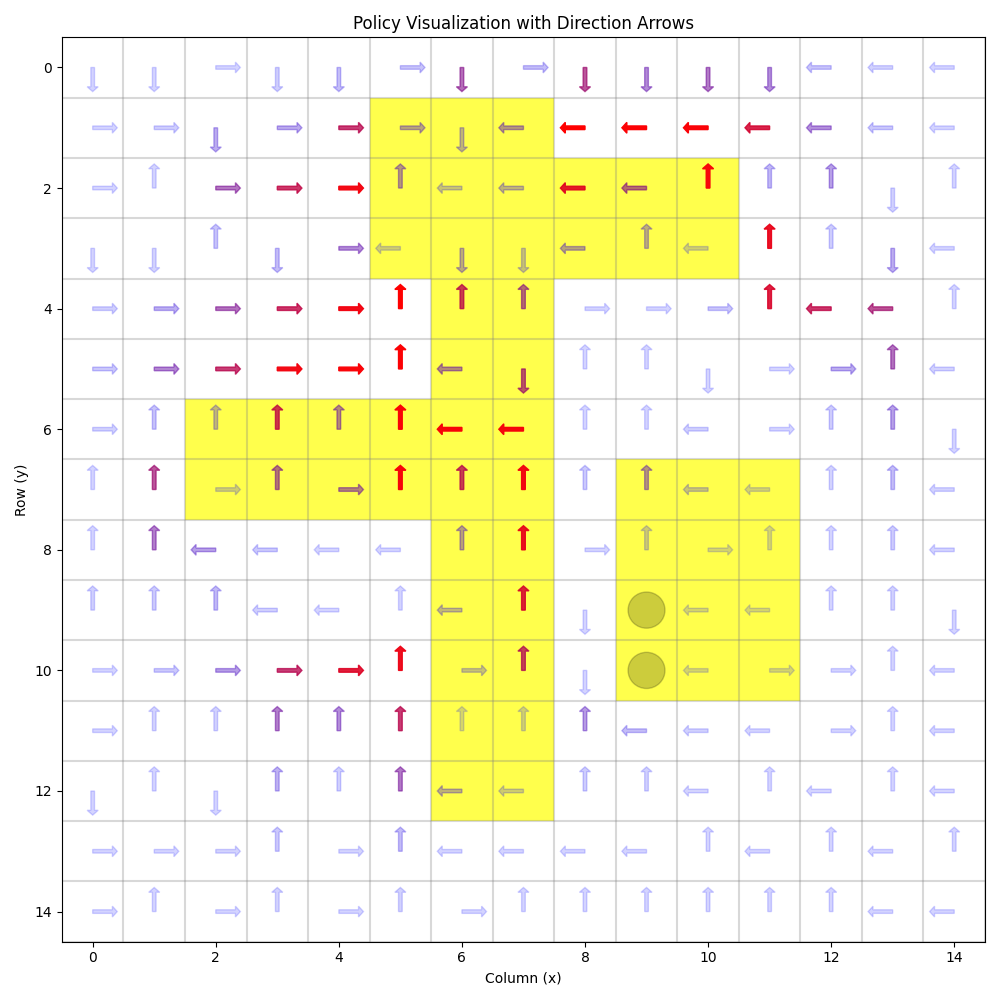
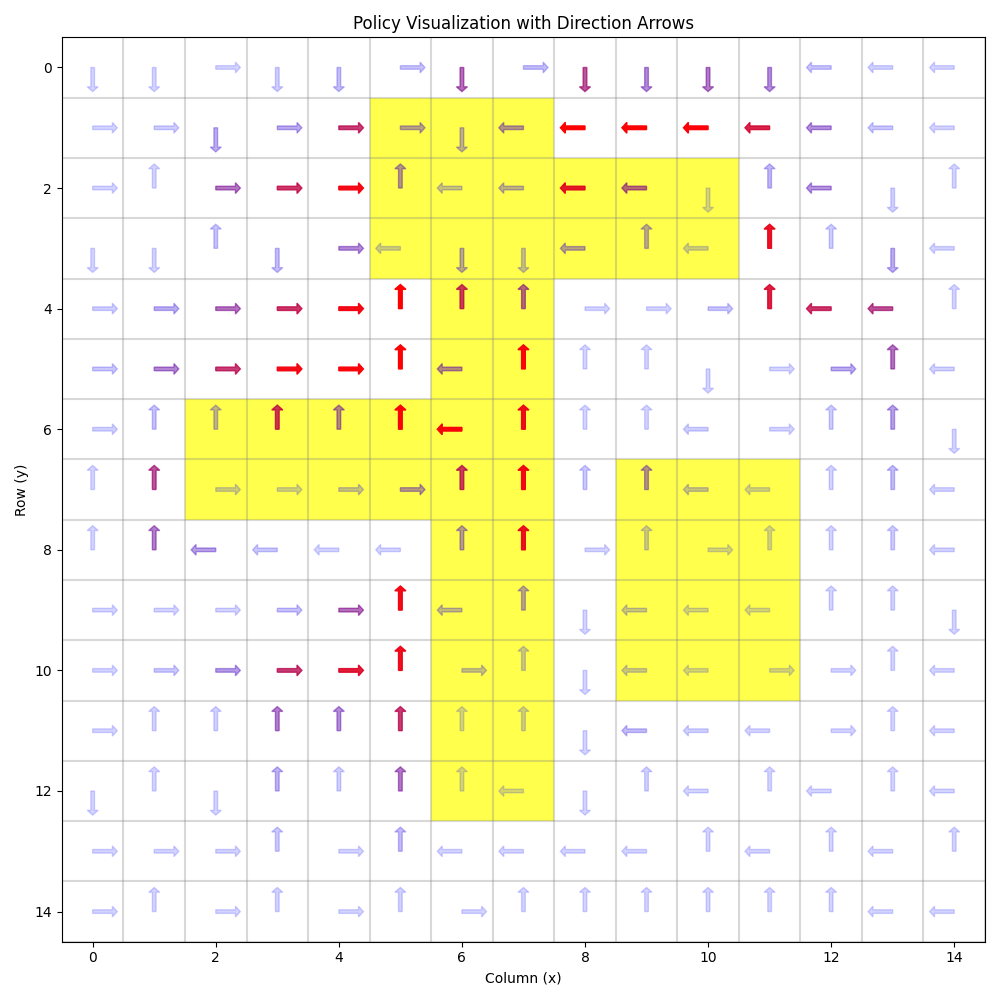
fix opposing action in safe policy locations

diff --git a/project/learning.py b/project/learning.py
@@ -92,23 +92,26 @@ class AtomicTask:
                 return True, (x, y)
 
         terrain_scan = torch.zeros_like(avoid_region)
-        deterministic_actions = torch.argmax(policy, dim=2)
         for row in range(avoid_region.shape[0]):
             for col in range(avoid_region.shape[1]):
                 if not goal_region[row,col] and not avoid_region[row,col] and not terrain_scan[row,col]:
                     r, c = row, col
                     trace = [(r,c)]
                     while True:
-                        a = deterministic_actions[r,c].item()
-                        out_of_range, (r, c) = get_next_state(r, c, a)
-                        if goal_region[r, c] or terrain_scan[r, c]:
-                            break
-                        elif out_of_range or avoid_region[r, c]:
-                            trace = torch.IntTensor(trace)
-                            policy[trace[:,0], trace[:,1]] = safe_policy[trace[:,0], trace[:,1]]
-                            break
-                        trace.append((r, c))
-                        terrain_scan[r,c] = 1
+                        a = policy[r,c].argmax().item()
+                        out_of_range, (next_r, next_c) = get_next_state(r, c, a)
+                        if goal_region[next_r, next_c] or terrain_scan[next_r, next_c]:
+                            break   # Keep original policy
+                        elif out_of_range or avoid_region[next_r, next_c] or (
+                                policy[next_r, next_c].argmax().item() == qmodel.env.opposite_action(a)):
+                            trace_tensor = torch.IntTensor(trace+[(next_r, next_c)])
+                            policy[trace_tensor[:,0], trace_tensor[:,1]] = safe_policy[trace_tensor[:,0], trace_tensor[:,1]]
+                            if out_of_range:
+                                break
+                        else:
+                            trace.append((next_r, next_c))
+                            r, c = next_r, next_c
+                            terrain_scan[r,c] = 1      
 
         return policy
         

diff --git a/project/reach_avoid_tabular.py b/project/reach_avoid_tabular.py
@@ -29,6 +29,9 @@ class Room:     # An elk grazing in a field
         self.terrain = None
         self.loc = torch.zeros(2, dtype=torch.int)
 
+    def opposite_action(self, action):
+        return (action + 2) % 4 + (4 if action >= 4 else 0)
+
     def visual(self, animate=True):
         canvas = self.terrain.numpy().astype(np.uint8)*80
         magnify = 1+int(1000/canvas.shape[0])
